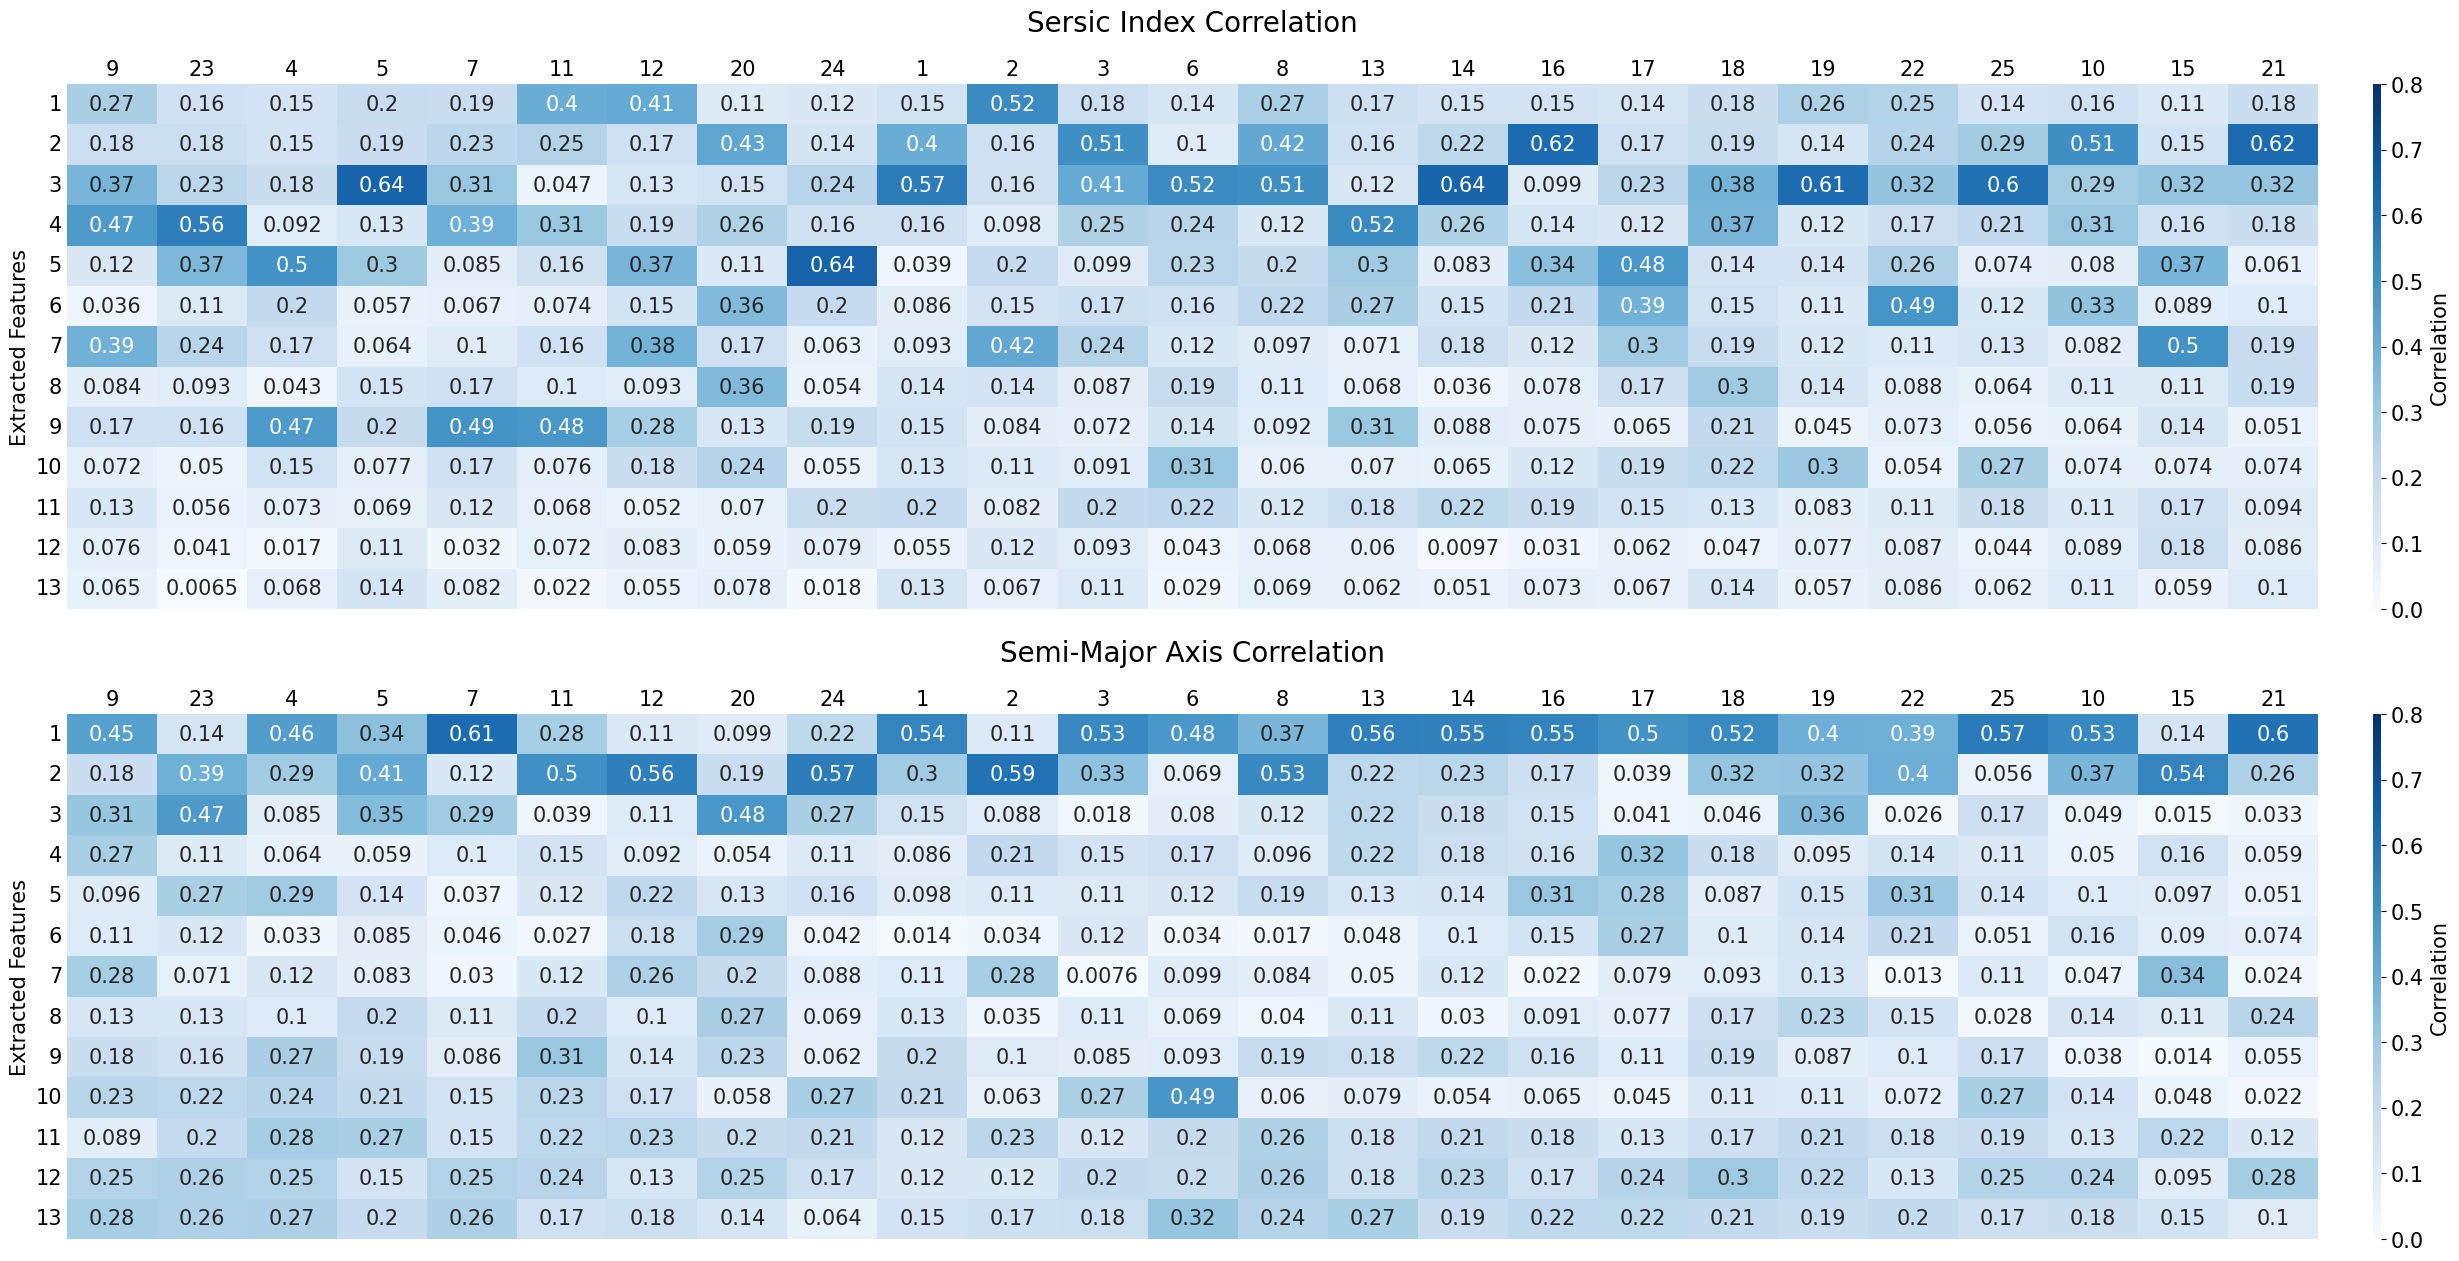
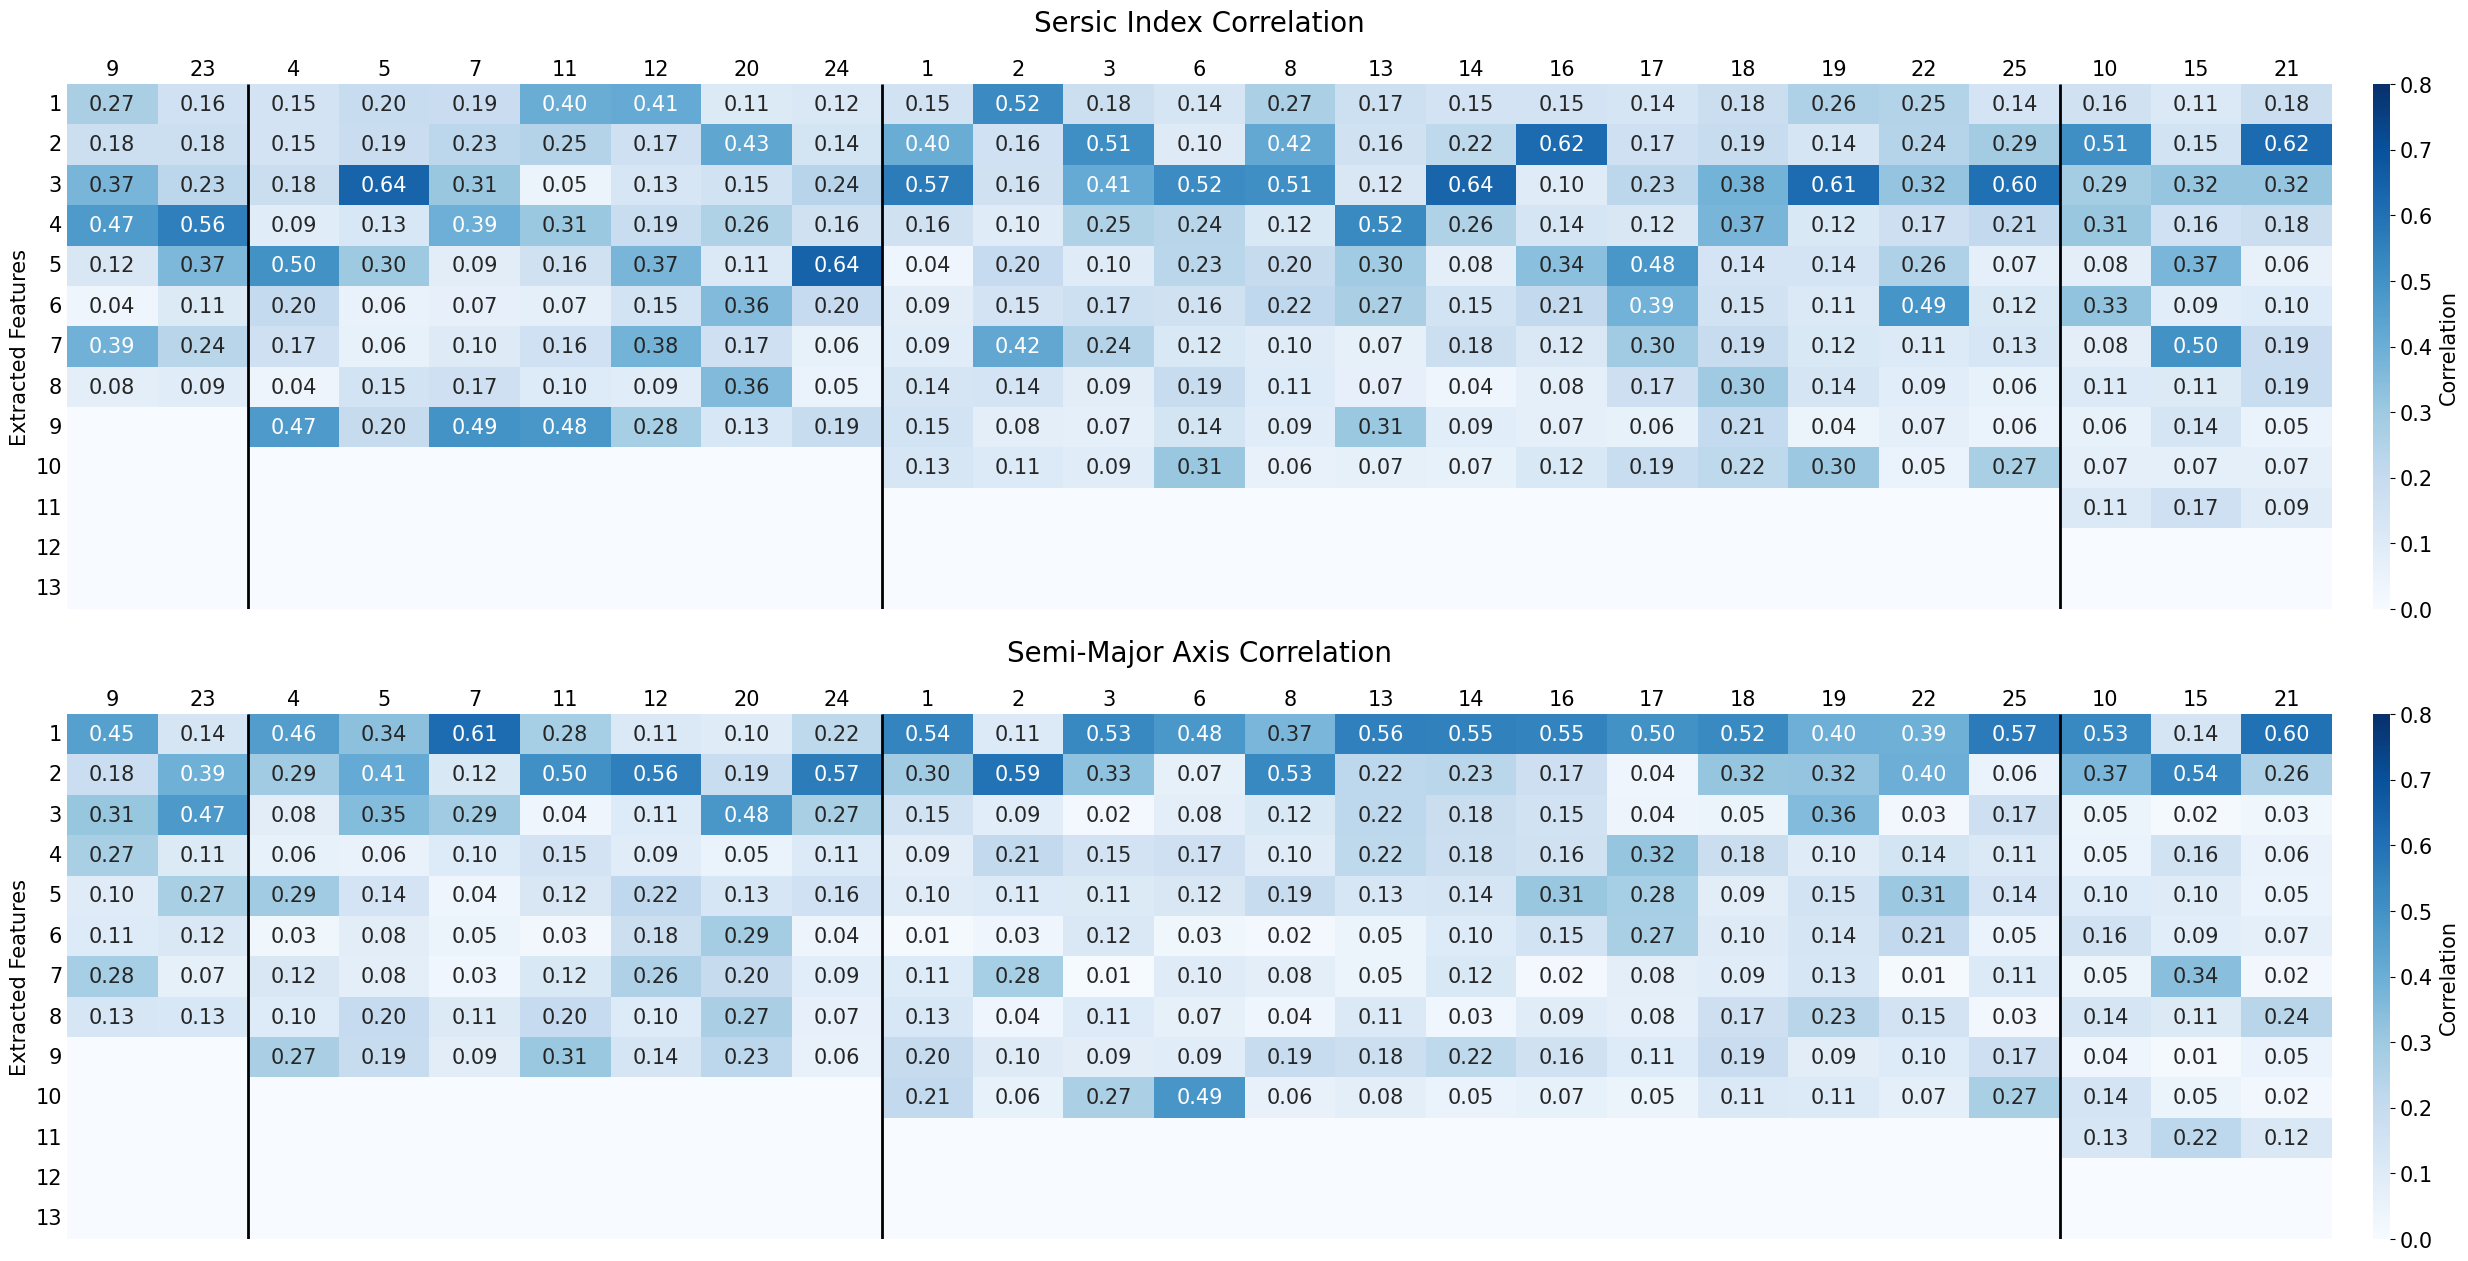
Code

diff --git a/correlation_flows.py b/correlation_flows.py
@@ -25,13 +25,7 @@ batch_size = 32
 
 
 all_properties = pd.read_csv("Galaxy Properties/Eagle Properties/all_properties_balanced.csv")
-
 print(all_properties)
-
-
-
-
-
 
 
 
@@ -188,36 +182,34 @@ for feature in range(0, 13):
 
     correlation_list = []
 
-    # for n_flows in [1, 2, 3, 4, 5, 6, 7, 8, 9, 10, 11, 12]:
-    # for encoding_dim in range(25, 41):
-    # for run in range(1, 26):
-    # for run in [1, 2, 3, 4, 5, 6, 7, 8, 9, 10, 11, 12, 14, 15]:
-    # for run in [1, 2, 3, 4, 5, 6, 7, 8, 9, 10, 11, 14, 17, 20, 23]:
-
     for run in run_order:
 
         # extracted_features = np.load("Variational Eagle/Extracted Features/Normalising Flow/planar_new_latent_" + str(encoding_dim) + "_beta_" + beta_name + "_epoch_" + str(epochs) + "_flows_" + str(n_flows) + "_" + str(run) + "_default.npy")[0]
         extracted_features = np.load("Variational Eagle/Extracted Features/Normalising Flow Balanced/planar_new_latent_" + str(encoding_dim) + "_beta_" + beta_name + "_epoch_" + str(epochs) + "_flows_" + str(n_flows) + "_" + str(run) + "_default_transformed.npy")
         encoding_dim = extracted_features.shape[1]
 
-
         # perform pca on the extracted features
         pca = PCA(n_components=13).fit(extracted_features)
         extracted_features = pca.transform(extracted_features)
 
+        variance = pca.explained_variance_ratio_[feature]
 
+        if variance >= 0.001:
 
-        # # calculate the correlation coefficients (multiple for different types of correlation eg. mirrored)
-        # correlation_1 = np.corrcoef(extracted_features.T[feature], all_properties["n_r"])[0][1]
-        # correlation_2 = np.corrcoef(extracted_features.T[feature], abs(all_properties["n_r"]))[0][1]
-        # correlation_3 = np.corrcoef(abs(extracted_features.T[feature]), all_properties["n_r"])[0][1]
-        # correlation_4 = np.corrcoef(abs(extracted_features.T[feature]), abs(all_properties["n_r"]))[0][1]
-        #
-        # # add the strongest correlation
-        # correlation_list.append(max(abs(correlation_1), abs(correlation_2), abs(correlation_3), abs(correlation_4)))
+            # # calculate the correlation coefficients (multiple for different types of correlation eg. mirrored)
+            # correlation_1 = np.corrcoef(extracted_features.T[feature], all_properties["n_r"])[0][1]
+            # correlation_2 = np.corrcoef(extracted_features.T[feature], abs(all_properties["n_r"]))[0][1]
+            # correlation_3 = np.corrcoef(abs(extracted_features.T[feature]), all_properties["n_r"])[0][1]
+            # correlation_4 = np.corrcoef(abs(extracted_features.T[feature]), abs(all_properties["n_r"]))[0][1]
+            #
+            # # add the strongest correlation
+            # correlation_list.append(max(abs(correlation_1), abs(correlation_2), abs(correlation_3), abs(correlation_4)))
 
-        correlation = dcor.distance_correlation(extracted_features.T[feature], all_properties["n_r"])
-        correlation_list.append(correlation)
+            correlation = dcor.distance_correlation(extracted_features.T[feature], all_properties["n_r"])
+            correlation_list.append(correlation)
+
+        else:
+            correlation_list.append(0)
 
     correlation_df.loc[len(correlation_df)] = correlation_list
 
@@ -230,12 +222,13 @@ print(correlation_df)
 
 
 # create string labels for each of the correlations with the extracted feature index
-correlation_text_df = correlation_df.apply(lambda row: row.map(lambda val: f"#{row.name}: {val:.2f}"), axis=1)
+# correlation_text_df = correlation_df.apply(lambda row: row.map(lambda val: f"#{row.name}: {val:.2f}"), axis=1)
+# print(correlation_text_df)
 
-
-
-
+correlation_text_df = correlation_df.apply(lambda row: row.map(lambda val: f"{val:.2f}"), axis=1)
+correlation_text_df = correlation_text_df.replace("0.00", "")
 print(correlation_text_df)
+
 
 
 # order each of the columns (remove the number corresponding to each feature)
@@ -254,7 +247,8 @@ print(correlation_text_df)
 
 
 # sns.heatmap(abs(correlation_df), ax=axs[0], annot=correlation_text_df, fmt="", cmap="Blues", vmax=0.7, cbar_kws={'label': 'Correlation'})
-sns.heatmap(abs(correlation_df), ax=axs[0], annot=True, annot_kws={"size":15}, cmap="Blues", vmin=0, vmax=0.8, cbar_kws={"label": "Correlation", "pad": 0.02, "aspect": 60})
+# sns.heatmap(abs(correlation_df), ax=axs[0], annot=True, annot_kws={"size":15}, cmap="Blues", vmin=0, vmax=0.8, cbar_kws={"label": "Correlation", "pad": 0.02, "aspect": 30})
+sns.heatmap(abs(correlation_df), ax=axs[0], annot=correlation_text_df, fmt="", annot_kws={"size":15}, cmap="Blues", vmin=0, vmax=0.8, cbar_kws={"label": "Correlation", "pad": 0.015, "aspect": 30})
 
 
 axs[0].set_title("Sersic Index Correlation", fontsize=20, pad=20)
@@ -273,16 +267,7 @@ colourbar.ax.yaxis.label.set_size(15)
 def wrap_labels(ax, width, break_long_words=False):
 
     labels = []
-    # for label in ax.get_xticklabels():
-        # text = label.get_text()
-
-    # label_names = ["25", "26", "27", "28", "29", "30", "31", "32", "33", "34", "35", "36", "37", "38", "39", "40"]
-    # label_names = ["1", "2", "3", "4", "5", "6", "7", "8", "9", "10", "11", "12", "13", "14", "15", "16", "17", "18", "19", "20", "21", "22", "23", "24", "25"]
-    # label_names = ["1", "2", "3", "4", "5", "6", "7", "8", "9", "10", "11", "12", "14", "15"]
-    # label_names = ["1", "2", "3", "4", "5", "6", "7", "8", "9", "10", "11", "14", "17", "20", "23"]
-
     label_names = run_names
-
 
     for text in label_names:
         labels.append(textwrap.fill(text, width=width, break_long_words=break_long_words))
@@ -296,14 +281,6 @@ wrap_labels(axs[0], 10)
 
 
 
-
-
-
-# correlation_df = pd.DataFrame(columns=["25", "26", "27", "28", "29", "30", "31", "32", "33", "34", "35", "36", "37", "38", "39", "40"])
-# correlation_df = pd.DataFrame(columns=["1", "2", "3", "4", "5", "6", "7", "8", "9", "10", "11", "12", "13", "14", "15", "16", "17", "18", "19", "20", "21", "22", "23", "24", "25"])
-# correlation_df = pd.DataFrame(columns=["1", "2", "3", "4", "5", "6", "7", "8", "9", "10", "11", "12", "14", "15"])
-# correlation_df = pd.DataFrame(columns=["1", "2", "3", "4", "5", "6", "7", "8", "9", "10", "11", "14", "17", "20", "23"])
-
 correlation_df = pd.DataFrame(columns=run_names)
 
 
@@ -312,36 +289,34 @@ for feature in range(0, 13):
 
     correlation_list = []
 
-    # for n_flows in [1, 2, 3, 4, 5, 6, 7, 8, 9, 10, 11, 12]:
-    # for encoding_dim in range(25, 41):
-    # for run in range(1, 26):
-    # for run in [1, 2, 3, 4, 5, 6, 7, 8, 9, 10, 11, 12, 14, 15]:
-    # for run in [1, 2, 3, 4, 5, 6, 7, 8, 9, 10, 11, 14, 17, 20, 23]:
-
     for run in run_order:
 
         # extracted_features = np.load("Variational Eagle/Extracted Features/Normalising Flow/planar_new_latent_" + str(encoding_dim) + "_beta_" + beta_name + "_epoch_" + str(epochs) + "_flows_" + str(n_flows) + "_" + str(run) + "_default.npy")[0]
         extracted_features = np.load("Variational Eagle/Extracted Features/Normalising Flow Balanced/planar_new_latent_" + str(encoding_dim) + "_beta_" + beta_name + "_epoch_" + str(epochs) + "_flows_" + str(n_flows) + "_" + str(run) + "_default_transformed.npy")
         encoding_dim = extracted_features.shape[1]
 
-
-
         # perform pca on the extracted features
         pca = PCA(n_components=13).fit(extracted_features)
         extracted_features = pca.transform(extracted_features)
 
+        variance = pca.explained_variance_ratio_[feature]
 
-        # # calculate the correlation coefficients (multiple for different types of correlation eg. mirrored)
-        # correlation_1 = np.corrcoef(extracted_features.T[feature], all_properties["re_r"])[0][1]
-        # correlation_2 = np.corrcoef(extracted_features.T[feature], abs(all_properties["re_r"]))[0][1]
-        # correlation_3 = np.corrcoef(abs(extracted_features.T[feature]), all_properties["re_r"])[0][1]
-        # correlation_4 = np.corrcoef(abs(extracted_features.T[feature]), abs(all_properties["re_r"]))[0][1]
-        #
-        # # add the strongest correlation
-        # correlation_list.append(max(abs(correlation_1), abs(correlation_2), abs(correlation_3), abs(correlation_4)))
+        if variance >= 0.001:
 
-        correlation = dcor.distance_correlation(extracted_features.T[feature], all_properties["re_r"])
-        correlation_list.append(correlation)
+            # # calculate the correlation coefficients (multiple for different types of correlation eg. mirrored)
+            # correlation_1 = np.corrcoef(extracted_features.T[feature], all_properties["re_r"])[0][1]
+            # correlation_2 = np.corrcoef(extracted_features.T[feature], abs(all_properties["re_r"]))[0][1]
+            # correlation_3 = np.corrcoef(abs(extracted_features.T[feature]), all_properties["re_r"])[0][1]
+            # correlation_4 = np.corrcoef(abs(extracted_features.T[feature]), abs(all_properties["re_r"]))[0][1]
+            #
+            # # add the strongest correlation
+            # correlation_list.append(max(abs(correlation_1), abs(correlation_2), abs(correlation_3), abs(correlation_4)))
+
+            correlation = dcor.distance_correlation(extracted_features.T[feature], all_properties["re_r"])
+            correlation_list.append(correlation)
+
+        else:
+            correlation_list.append(0)
 
     correlation_df.loc[len(correlation_df)] = correlation_list
 
@@ -355,7 +330,9 @@ print(correlation_df)
 
 
 # create string labels for each of the correlations with the extracted feature index
-correlation_text_df = correlation_df.apply(lambda row: row.map(lambda val: f"#{row.name}: {val:.2f}"), axis=1)
+correlation_text_df = correlation_df.apply(lambda row: row.map(lambda val: f"{val:.2f}"), axis=1)
+correlation_text_df = correlation_text_df.replace("0.00", "")
+print(correlation_text_df)
 
 
 
@@ -383,7 +360,8 @@ print(correlation_text_df)
 
 
 # sns.heatmap(abs(correlation_df), ax=axs[1], annot=correlation_text_df, fmt="", cmap="Blues", vmax=0.7, cbar_kws={'label': 'Correlation'})
-sns.heatmap(abs(correlation_df), ax=axs[1], annot=True, annot_kws={"size":15}, cmap="Blues", vmin=0, vmax=0.8, cbar_kws={"label": "Correlation", "pad": 0.02, "aspect": 60})
+# sns.heatmap(abs(correlation_df), ax=axs[1], annot=True, annot_kws={"size":15}, cmap="Blues", vmin=0, vmax=0.8, cbar_kws={"label": "Correlation", "pad": 0.02, "aspect": 60})
+sns.heatmap(abs(correlation_df), ax=axs[1], annot=correlation_text_df, fmt="", annot_kws={"size":15}, cmap="Blues", vmin=0, vmax=0.8, cbar_kws={"label": "Correlation", "pad": 0.015, "aspect": 30})
 
 
 axs[1].set_title("Semi-Major Axis Correlation", fontsize=20, pad=20)
@@ -402,14 +380,6 @@ colourbar.ax.yaxis.label.set_size(15)
 def wrap_labels(ax, width, break_long_words=False):
 
     labels = []
-    # for label in ax.get_xticklabels():
-        # text = label.get_text()
-
-    # label_names = ["25", "26", "27", "28", "29", "30", "31", "32", "33", "34", "35", "36", "37", "38", "39", "40"]
-    # label_names = ["1", "2", "3", "4", "5", "6", "7", "8", "9", "10", "11", "12", "13", "14", "15", "16", "17", "18", "19", "20", "21", "22", "23", "24", "25"]
-    # label_names = ["1", "2", "3", "4", "5", "6", "7", "8", "9", "10", "11", "12", "14", "15"]
-    # label_names = ["1", "2", "3", "4", "5", "6", "7", "8", "9", "10", "11", "14", "17", "20", "23"]
-
     label_names = run_names
 
     for text in label_names:
@@ -417,6 +387,19 @@ def wrap_labels(ax, width, break_long_words=False):
     axs[1].set_xticklabels(labels, rotation=0, fontsize=15)
 
 wrap_labels(axs[1], 10)
+
+
+
+
+
+cols = [2, 9, 22]
+
+ymin, ymax = axs[0].get_ylim()
+for col in cols:
+    axs[0].vlines(x=col, ymin=ymin, ymax=ymax, color="black", linewidth=2)
+    axs[1].vlines(x=col, ymin=ymin, ymax=ymax, color="black", linewidth=2)
+
+
 
 
 

diff --git a/pca.py b/pca.py
@@ -10,7 +10,7 @@ import random
 
 
 run = 1
-encoding_dim = 50
+encoding_dim = 30
 n_flows = 0
 beta = 0.0001
 beta_name = "0001"
